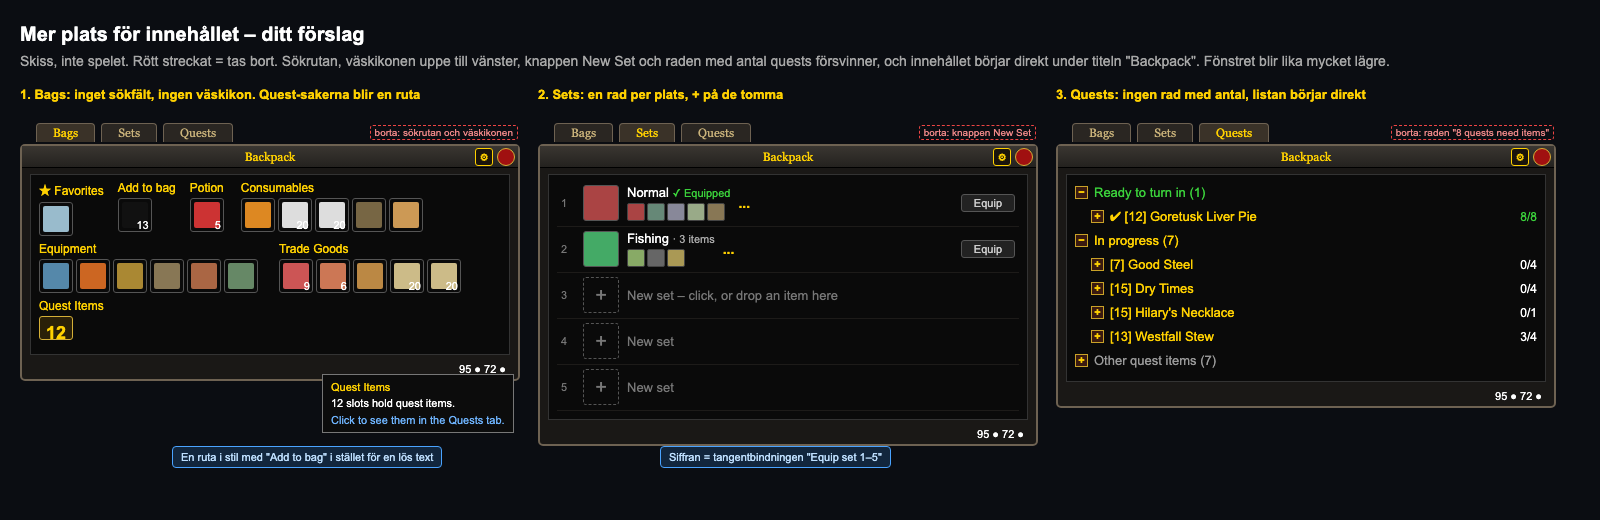
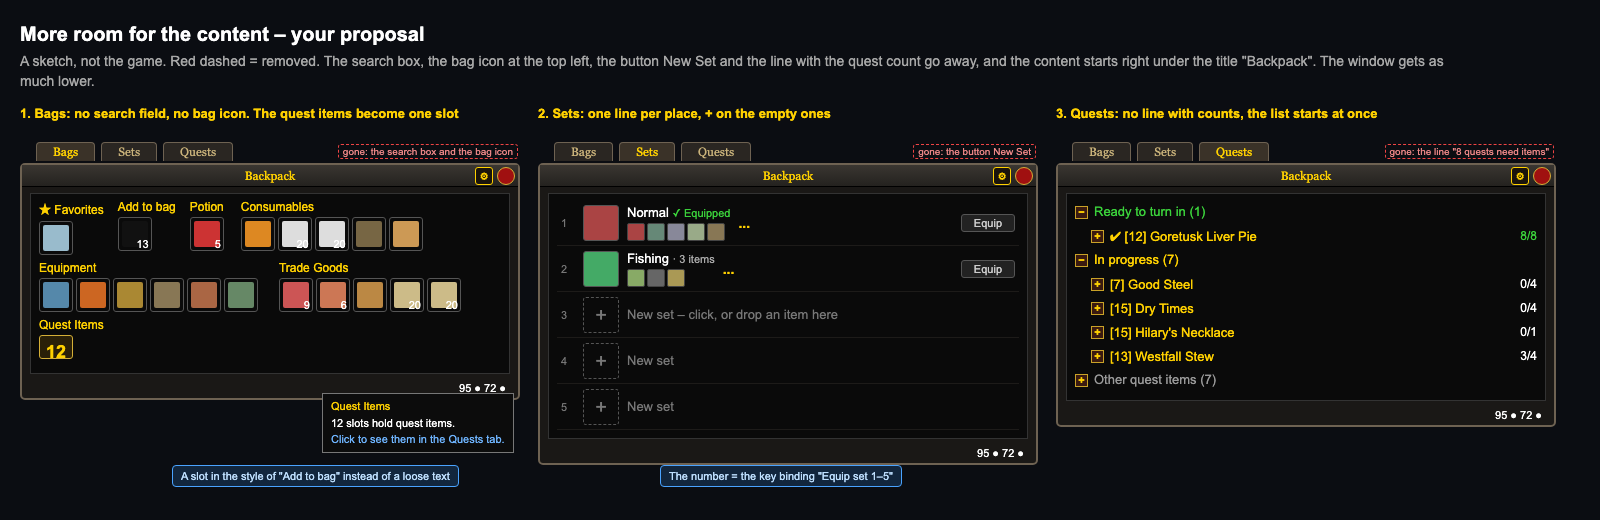
Translate .design/sketch-more-room to English (#7)

diff --git a/.design/sketch-more-room.html b/.design/sketch-more-room.html
@@ -1,4 +1,4 @@
-<!DOCTYPE html><html><head><meta charset="utf-8"><title>Tidy Pack – skiss: mer plats för innehållet</title>
+<!DOCTYPE html><html><head><meta charset="utf-8"><title>Tidy Pack – sketch: more room for the content</title>
 <style>
 *{box-sizing:border-box}body{margin:0;padding:20px;background:#0b0d12;color:#d8d8d8;font:14px/1.4 Arial,sans-serif;width:1560px}
 h1{font-size:20px;margin:0 0 4px;color:#fff}.n{color:#a8a8a8;margin:0 0 14px;max-width:1450px}
@@ -24,11 +24,11 @@ h1{font-size:20px;margin:0 0 4px;color:#fff}.n{color:#a8a8a8;margin:0 0 14px;max
 .q{height:24px;display:flex;align-items:center;gap:6px;padding-left:16px;font:13px Arial;color:#ffd100}.q span.r{margin-left:auto;color:#fff;font-size:12px}
 .gone{position:absolute;border:1px dashed #e44;color:#e88;font:10px Arial;padding:1px 4px;border-radius:3px}
 </style></head><body>
-<h1>Mer plats för innehållet – ditt förslag</h1>
-<p class="n">Skiss, inte spelet. Rött streckat = tas bort. Sökrutan, väskikonen uppe till vänster, knappen New Set och raden med antal quests försvinner, och innehållet börjar direkt under titeln "Backpack". Fönstret blir lika mycket lägre.</p>
+<h1>More room for the content – your proposal</h1>
+<p class="n">A sketch, not the game. Red dashed = removed. The search box, the bag icon at the top left, the button New Set and the line with the quest count go away, and the content starts right under the title "Backpack". The window gets as much lower.</p>
 <div class="row">
 
-<div class="col"><h2>1. Bags: inget sökfält, ingen väskikon. Quest-sakerna blir en ruta</h2><div class="bag">
+<div class="col"><h2>1. Bags: no search field, no bag icon. The quest items become one slot</h2><div class="bag">
 <div class="tabs"><div class="tab on">Bags</div><div class="tab">Sets</div><div class="tab">Quests</div></div>
 <div class="t">Backpack<div class="g">⚙</div><div class="x"></div></div>
 <div class="in">
@@ -36,12 +36,12 @@ h1{font-size:20px;margin:0 0 4px;color:#fff}.n{color:#a8a8a8;margin:0 0 14px;max
 <div class="gr"><b>Equipment</b><span class="sl"><i style="background:#58a"></i></span><span class="sl"><i style="background:#c62"></i></span><span class="sl"><i style="background:#a83"></i></span><span class="sl"><i style="background:#875"></i></span><span class="sl"><i style="background:#a64"></i></span><span class="sl"><i style="background:#686"></i></span></div>
 <div class="gr"><b>Trade Goods</b><span class="sl"><i style="background:#c55"></i><s>9</s></span><span class="sl"><i style="background:#c75"></i><s>6</s></span><span class="sl"><i style="background:#b84"></i></span><span class="sl"><i style="background:#cb8"></i><s>20</s></span><span class="sl"><i style="background:#cb8"></i><s>20</s></span></div><div class="gr"><b>Quest Items</b><span class="sl q"><em>12</em></span></div>
 </div><div class="money">95 ● 72 ●</div>
-<div class="gone" style="right:0;top:-21px">borta: sökrutan och väskikonen</div>
+<div class="gone" style="right:0;top:-21px">gone: the search box and the bag icon</div>
 <div class="tip" style="left:300px;top:228px"><span class="y">Quest Items</span><br>12 slots hold quest items.<br><span class="bl">Click to see them in the Quests tab.</span></div>
-<div class="call" style="left:150px;top:300px">En ruta i stil med "Add to bag" i stället för en lös text</div>
+<div class="call" style="left:150px;top:300px">A slot in the style of "Add to bag" instead of a loose text</div>
 </div></div>
 
-<div class="col"><h2>2. Sets: en rad per plats, + på de tomma</h2><div class="bag">
+<div class="col"><h2>2. Sets: one line per place, + on the empty ones</h2><div class="bag">
 <div class="tabs"><div class="tab">Bags</div><div class="tab on">Sets</div><div class="tab">Quests</div></div>
 <div class="t">Backpack<div class="g">⚙</div><div class="x"></div></div>
 <div class="in">
@@ -51,11 +51,11 @@ h1{font-size:20px;margin:0 0 4px;color:#fff}.n{color:#a8a8a8;margin:0 0 14px;max
 <div class="set empty"><span class="num">4</span><div class="ic">+</div><div class="nm">New set</div></div>
 <div class="set empty"><span class="num">5</span><div class="ic">+</div><div class="nm">New set</div></div>
 </div><div class="money">95 ● 72 ●</div>
-<div class="gone" style="right:0;top:-21px">borta: knappen New Set</div>
-<div class="call" style="left:120px;top:300px">Siffran = tangentbindningen "Equip set 1–5"</div>
+<div class="gone" style="right:0;top:-21px">gone: the button New Set</div>
+<div class="call" style="left:120px;top:300px">The number = the key binding "Equip set 1–5"</div>
 </div></div>
 
-<div class="col"><h2>3. Quests: ingen rad med antal, listan börjar direkt</h2><div class="bag">
+<div class="col"><h2>3. Quests: no line with counts, the list starts at once</h2><div class="bag">
 <div class="tabs"><div class="tab">Bags</div><div class="tab">Sets</div><div class="tab on">Quests</div></div>
 <div class="t">Backpack<div class="g">⚙</div><div class="x"></div></div>
 <div class="in">
@@ -68,7 +68,7 @@ h1{font-size:20px;margin:0 0 4px;color:#fff}.n{color:#a8a8a8;margin:0 0 14px;max
 <div class="q"><span class="pm">+</span>[13] Westfall Stew<span class="r">3/4</span></div>
 <div class="sec" style="color:#999"><span class="pm">+</span>Other quest items (7)</div>
 </div><div class="money">95 ● 72 ●</div>
-<div class="gone" style="right:0;top:-21px">borta: raden "8 quests need items"</div>
+<div class="gone" style="right:0;top:-21px">gone: the line "8 quests need items"</div>
 </div></div>
 
 </div></body></html>
